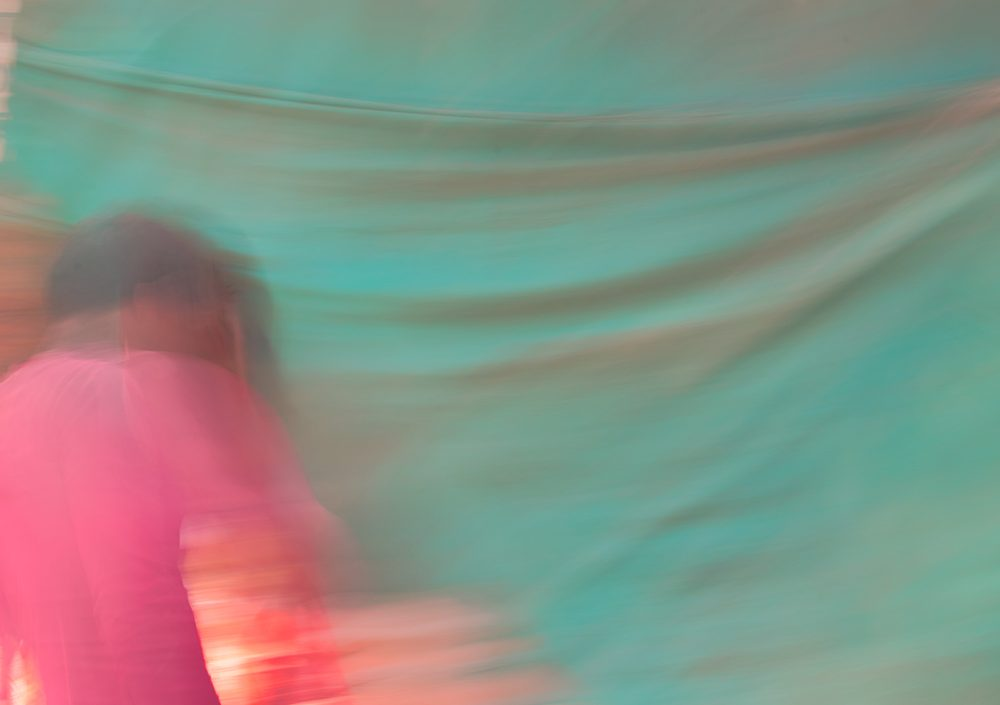
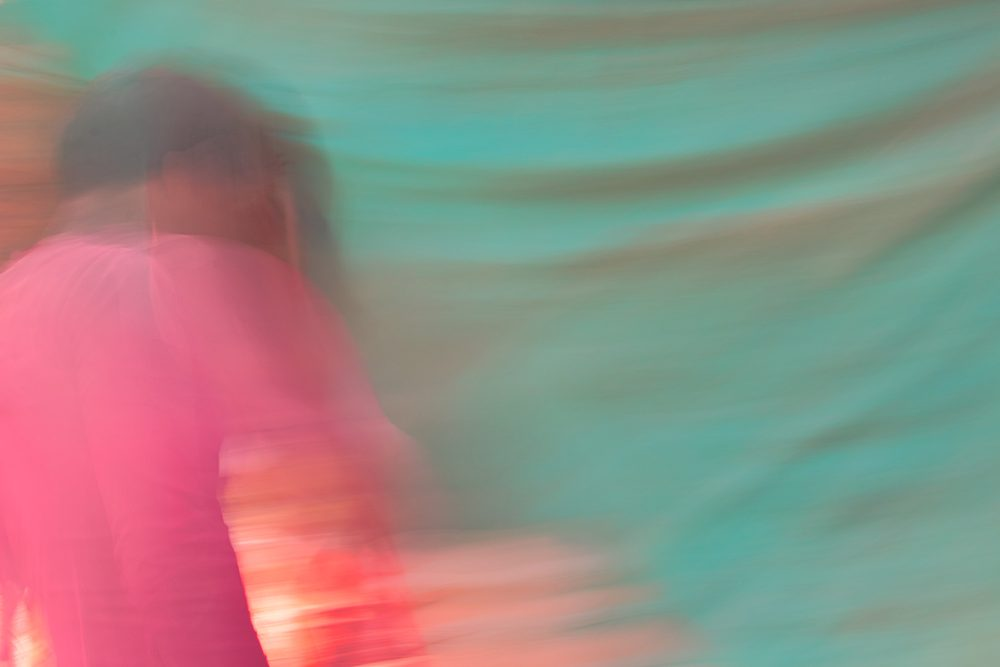
Nr. 1 im Zuschnitt wie auf der Karte (Variante B)

diff --git a/en/overview.html b/en/overview.html
@@ -82,10 +82,10 @@
         </a>
       </li>
       <li>
-        <a href="../bilder/werk-01-2400.jpg?v=e518cc33" data-gross="../bilder/werk-01-2400.jpg?v=e518cc33"
-           data-srcset="../bilder/werk-01-1600.jpg?v=e518cc33 1600w, ../bilder/werk-01-2400.jpg?v=e518cc33 2400w"
+        <a href="../bilder/werk-01-2400.jpg?v=a85094d5" data-gross="../bilder/werk-01-2400.jpg?v=a85094d5"
+           data-srcset="../bilder/werk-01-1600.jpg?v=a85094d5 1600w, ../bilder/werk-01-2400.jpg?v=a85094d5 2400w"
            data-unterschrift="No. 1 · 2024" data-kennung="nr-1">
-          <img src="../bilder/werk-01-1600.jpg?v=e518cc33" srcset="../bilder/werk-01-1000.jpg?v=e518cc33 1000w, ../bilder/werk-01-1600.jpg?v=e518cc33 1600w, ../bilder/werk-01-2400.jpg?v=e518cc33 2400w" sizes="(min-width: 1100px) 22vw, (min-width: 700px) 30vw, 45vw" width="1600" height="1128" alt="Photograph No. 1, 2024" loading="eager" decoding="async" fetchpriority="high">
+          <img src="../bilder/werk-01-1600.jpg?v=a85094d5" srcset="../bilder/werk-01-1000.jpg?v=a85094d5 1000w, ../bilder/werk-01-1600.jpg?v=a85094d5 1600w, ../bilder/werk-01-2400.jpg?v=a85094d5 2400w" sizes="(min-width: 1100px) 22vw, (min-width: 700px) 30vw, 45vw" width="1600" height="1067" alt="Photograph No. 1, 2024" loading="eager" decoding="async" fetchpriority="high">
           <span class="bu-nr">No. 1</span>
         </a>
       </li>

diff --git a/uebersicht.html b/uebersicht.html
@@ -82,10 +82,10 @@
         </a>
       </li>
       <li>
-        <a href="bilder/werk-01-2400.jpg?v=e518cc33" data-gross="bilder/werk-01-2400.jpg?v=e518cc33"
-           data-srcset="bilder/werk-01-1600.jpg?v=e518cc33 1600w, bilder/werk-01-2400.jpg?v=e518cc33 2400w"
+        <a href="bilder/werk-01-2400.jpg?v=a85094d5" data-gross="bilder/werk-01-2400.jpg?v=a85094d5"
+           data-srcset="bilder/werk-01-1600.jpg?v=a85094d5 1600w, bilder/werk-01-2400.jpg?v=a85094d5 2400w"
            data-unterschrift="Nr. 1 · 2024" data-kennung="nr-1">
-          <img src="bilder/werk-01-1600.jpg?v=e518cc33" srcset="bilder/werk-01-1000.jpg?v=e518cc33 1000w, bilder/werk-01-1600.jpg?v=e518cc33 1600w, bilder/werk-01-2400.jpg?v=e518cc33 2400w" sizes="(min-width: 1100px) 22vw, (min-width: 700px) 30vw, 45vw" width="1600" height="1128" alt="Fotografie Nr. 1, 2024" loading="eager" decoding="async" fetchpriority="high">
+          <img src="bilder/werk-01-1600.jpg?v=a85094d5" srcset="bilder/werk-01-1000.jpg?v=a85094d5 1000w, bilder/werk-01-1600.jpg?v=a85094d5 1600w, bilder/werk-01-2400.jpg?v=a85094d5 2400w" sizes="(min-width: 1100px) 22vw, (min-width: 700px) 30vw, 45vw" width="1600" height="1067" alt="Fotografie Nr. 1, 2024" loading="eager" decoding="async" fetchpriority="high">
           <span class="bu-nr">Nr. 1</span>
         </a>
       </li>

diff --git a/en/index.html b/en/index.html
@@ -43,8 +43,8 @@
       <h1>Milan Raabe</h1>
       <a class="knopf" href="#kontakt">Contact</a>
     </div>
-    <figure class="start-bild" style="--ar:1.4184">
-      <img src="../bilder/werk-01-1600.jpg?v=e518cc33" srcset="../bilder/werk-01-1000.jpg?v=e518cc33 1000w, ../bilder/werk-01-1600.jpg?v=e518cc33 1600w, ../bilder/werk-01-2400.jpg?v=e518cc33 2400w" sizes="(min-width: 900px) 64vw, 100vw" width="1600" height="1128" alt="Photograph No. 1, 2024" loading="eager" decoding="async" fetchpriority="high">
+    <figure class="start-bild" style="--ar:1.4993">
+      <img src="../bilder/werk-01-1600.jpg?v=a85094d5" srcset="../bilder/werk-01-1000.jpg?v=a85094d5 1000w, ../bilder/werk-01-1600.jpg?v=a85094d5 1600w, ../bilder/werk-01-2400.jpg?v=a85094d5 2400w" sizes="(min-width: 900px) 64vw, 100vw" width="1600" height="1067" alt="Photograph No. 1, 2024" loading="eager" decoding="async" fetchpriority="high">
       <figcaption><span class="bu-nr">No. 1</span><span class="bu-meta">2024</span></figcaption>
     </figure>
   </section>

diff --git a/index.html b/index.html
@@ -43,8 +43,8 @@
       <h1>Milan Raabe</h1>
       <a class="knopf" href="#kontakt">Kontakt</a>
     </div>
-    <figure class="start-bild" style="--ar:1.4184">
-      <img src="bilder/werk-01-1600.jpg?v=e518cc33" srcset="bilder/werk-01-1000.jpg?v=e518cc33 1000w, bilder/werk-01-1600.jpg?v=e518cc33 1600w, bilder/werk-01-2400.jpg?v=e518cc33 2400w" sizes="(min-width: 900px) 64vw, 100vw" width="1600" height="1128" alt="Fotografie Nr. 1, 2024" loading="eager" decoding="async" fetchpriority="high">
+    <figure class="start-bild" style="--ar:1.4993">
+      <img src="bilder/werk-01-1600.jpg?v=a85094d5" srcset="bilder/werk-01-1000.jpg?v=a85094d5 1000w, bilder/werk-01-1600.jpg?v=a85094d5 1600w, bilder/werk-01-2400.jpg?v=a85094d5 2400w" sizes="(min-width: 900px) 64vw, 100vw" width="1600" height="1067" alt="Fotografie Nr. 1, 2024" loading="eager" decoding="async" fetchpriority="high">
       <figcaption><span class="bu-nr">Nr. 1</span><span class="bu-meta">2024</span></figcaption>
     </figure>
   </section>
